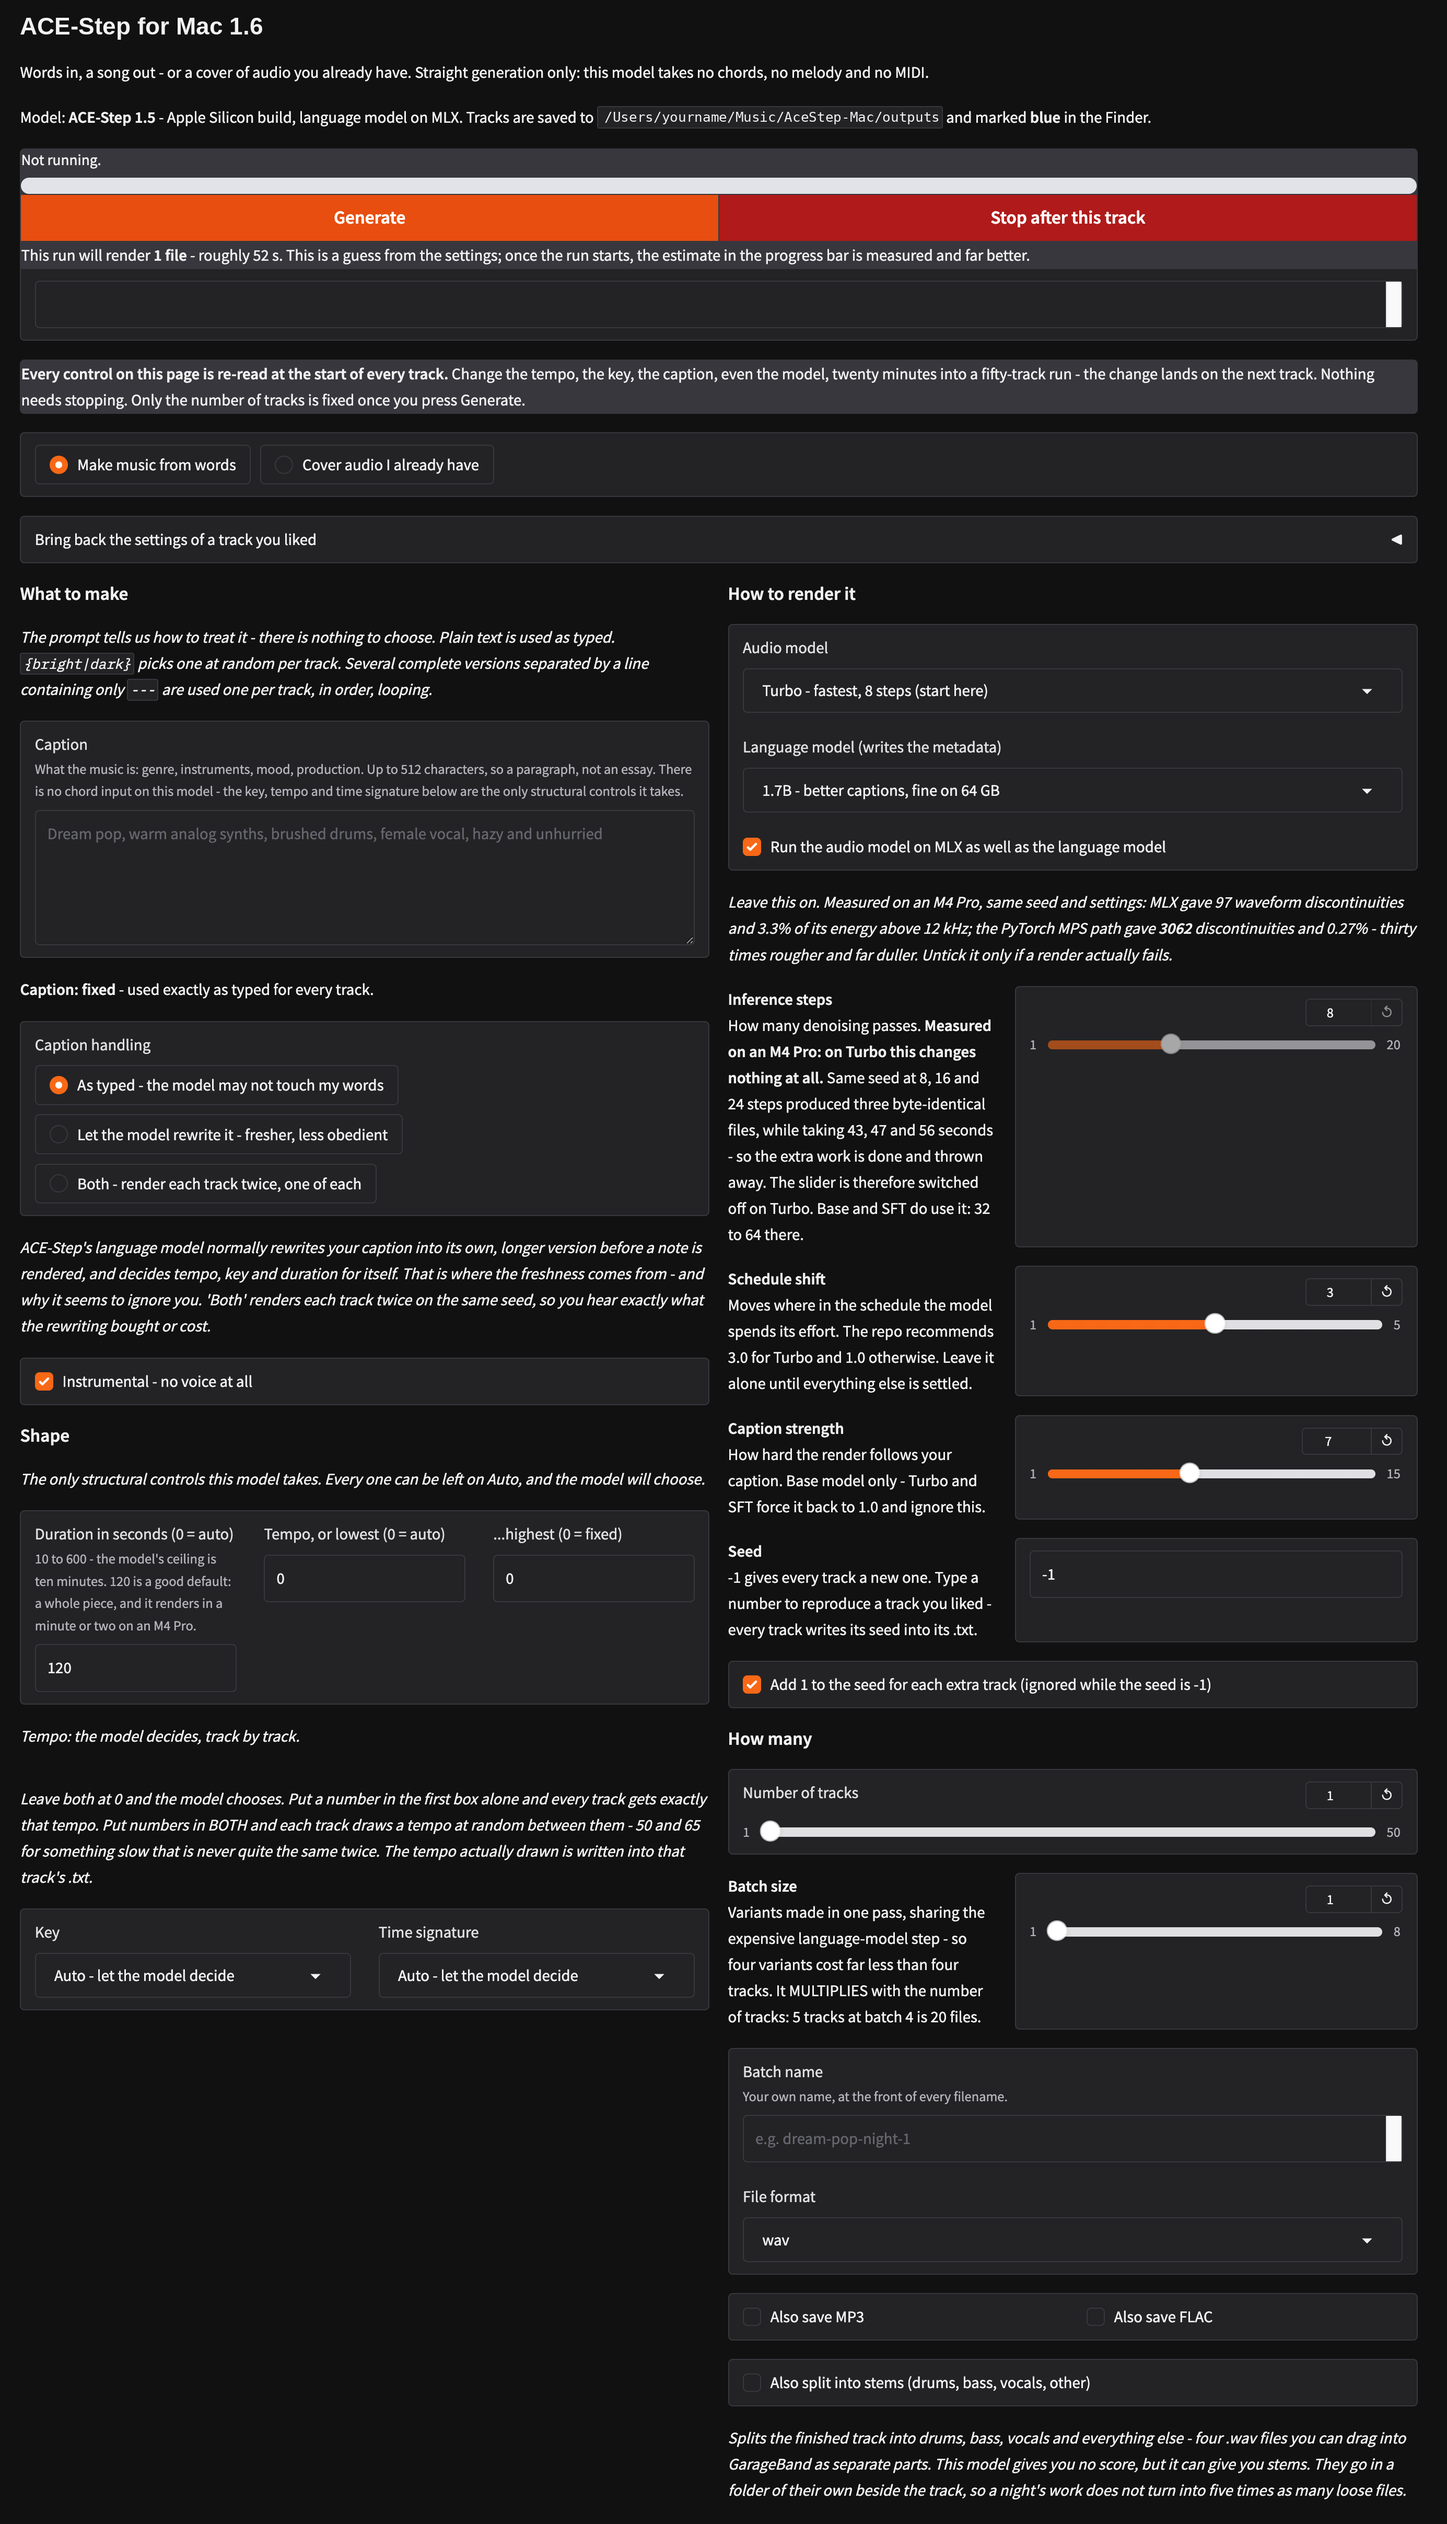
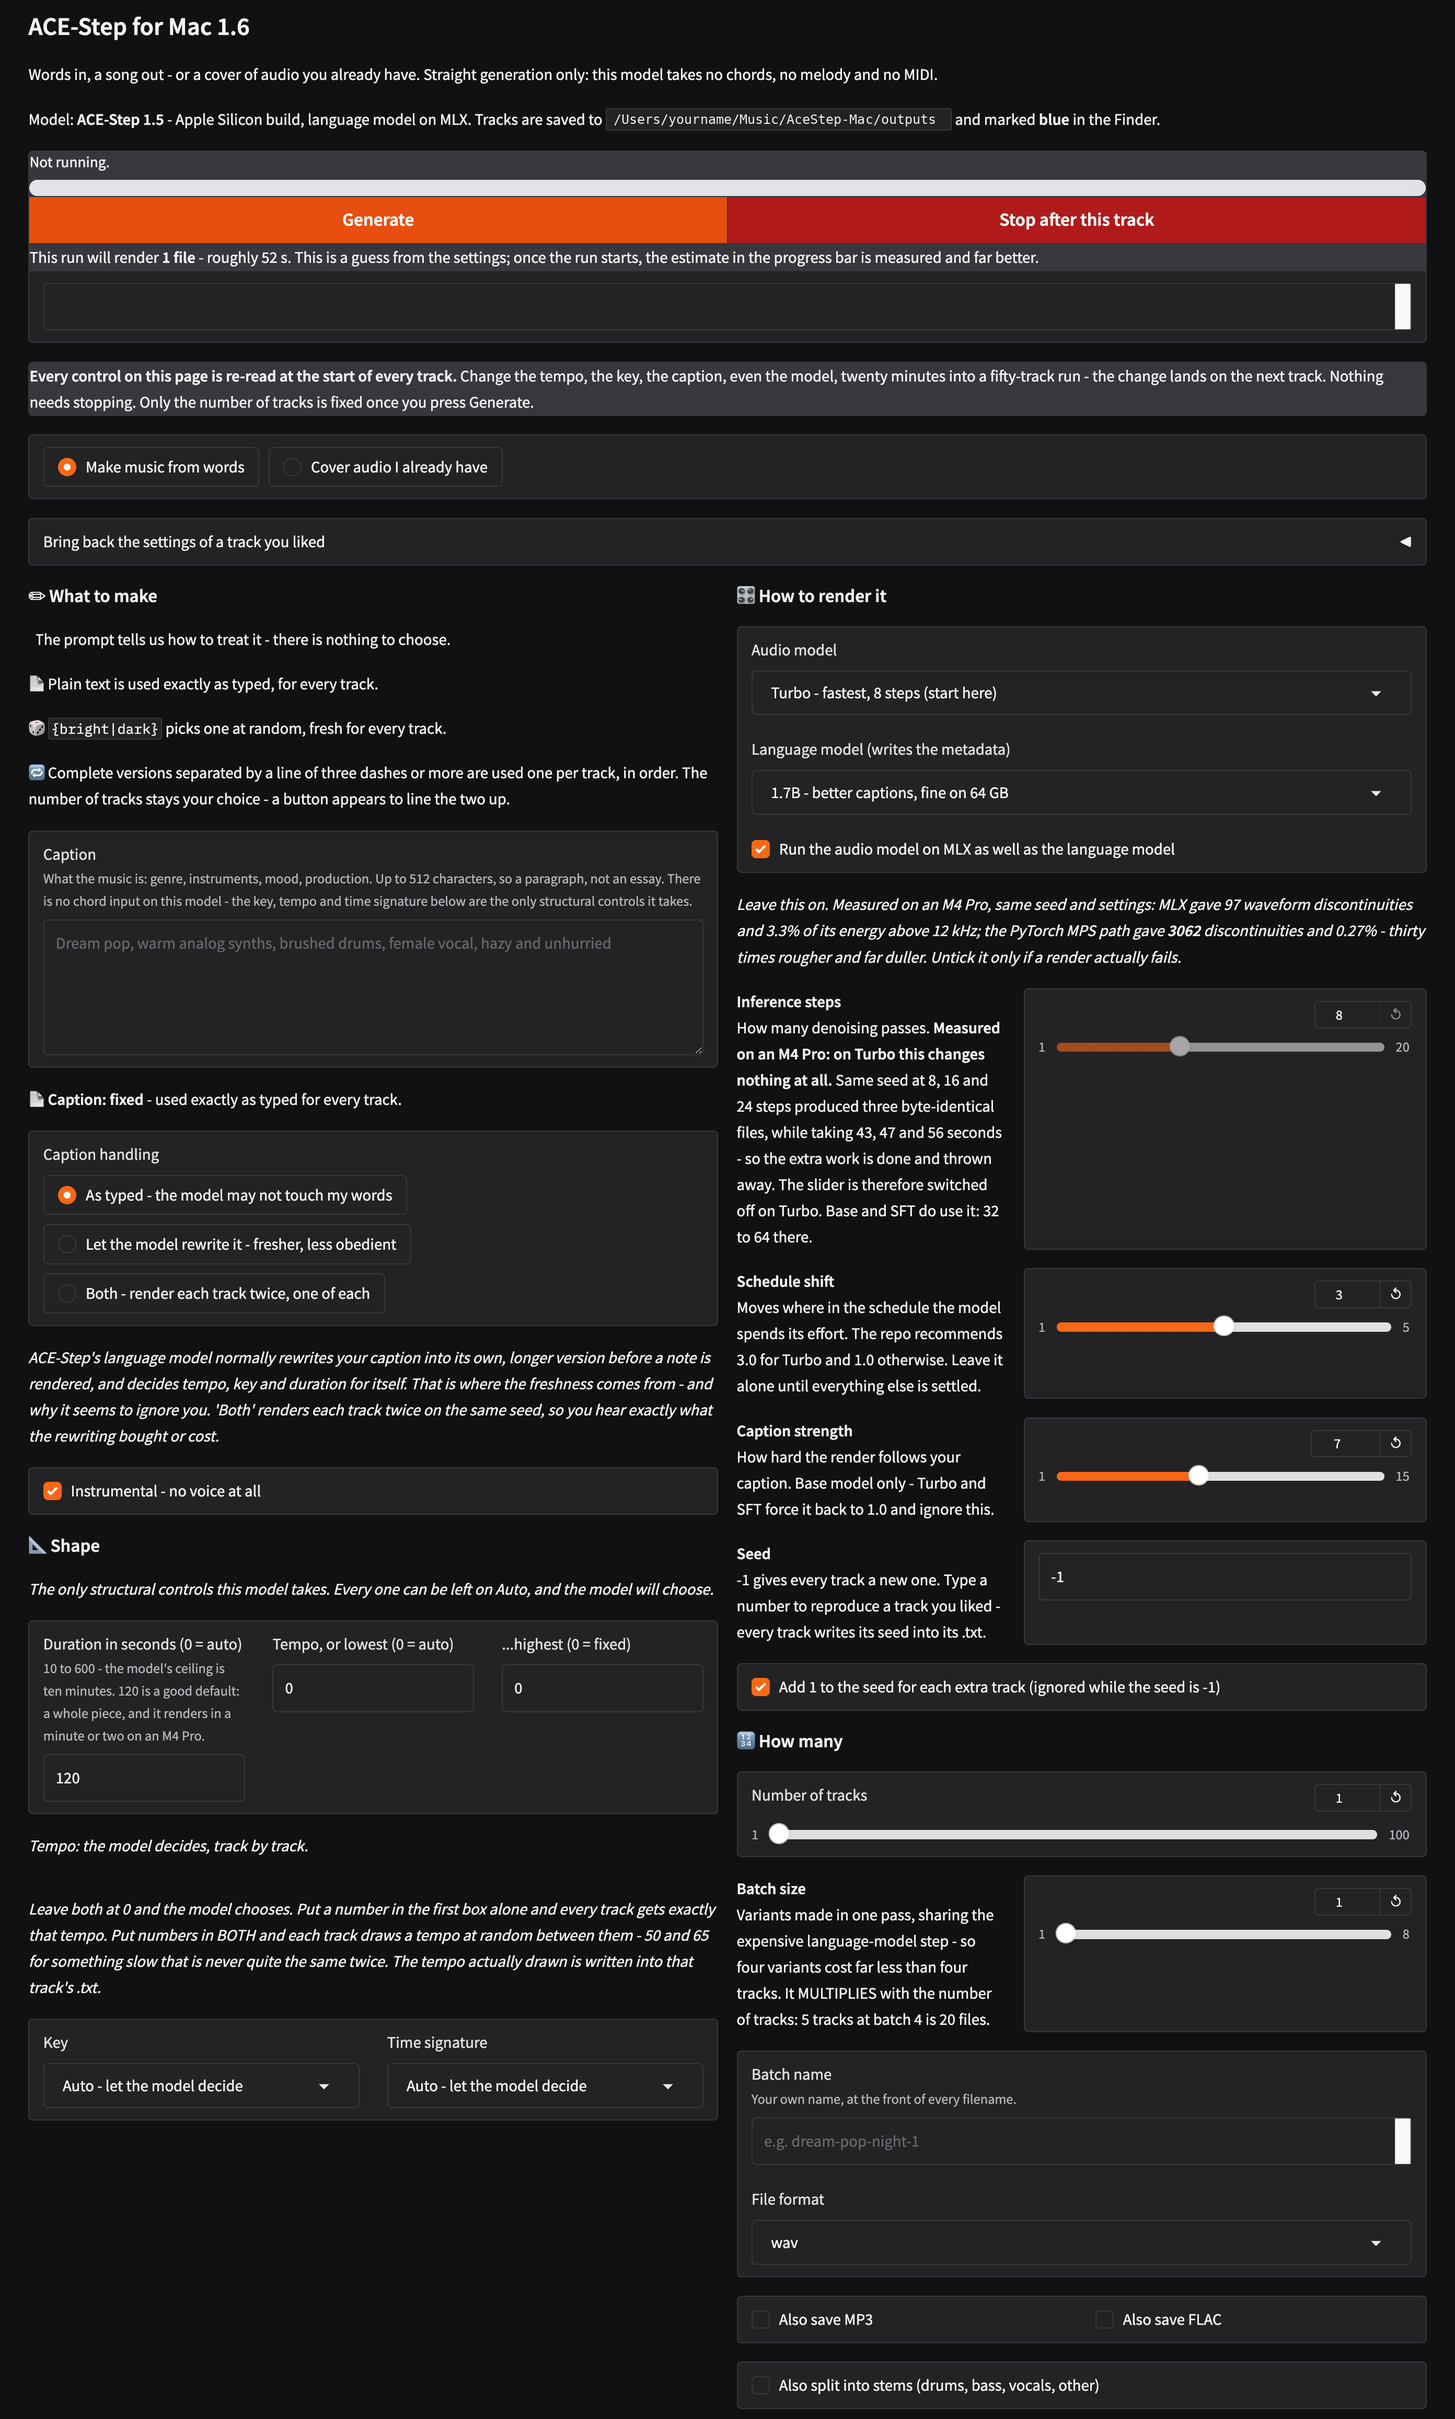
New screenshot, and the stray asterisks it revealed
The prompt legend became four paragraphs, and a blank line closes an italic
run in Markdown - so the asterisks wrapping it were printed as text, one at
the start and one at the end. Visible in the screenshot, invisible to me.
The legend is no longer italic; it is a legend, not an aside.

INSTALL now says at the top that a short version waits at the bottom, which
is where a developer in a hurry was never going to look. The old link to it
went stale when the heading gained an emoji, so it is fixed and no longer
said twice.

Screenshot retaken against the current build, output path made generic.

diff --git a/acestep_app.py b/acestep_app.py
@@ -1042,7 +1042,9 @@ with gr.Blocks(title="ACE-Step for Mac") as demo:
                             "track into.*")
 
             gr.Markdown("### \N{PENCIL} What to make")
-            gr.Markdown(f"*{PROMPT_HELP}*")
+            gr.Markdown(PROMPT_HELP)   # NOT italic: it is four paragraphs now,
+                                       # and a blank line closes an italic run,
+                                       # which printed the asterisks as text.
             caption = gr.Textbox(label="Caption", lines=5, elem_classes=["resizable"],
                                  placeholder="Dream pop, warm analog synths, brushed drums, "
                                              "female vocal, hazy and unhurried",

diff --git a/INSTALL.md b/INSTALL.md
@@ -2,12 +2,13 @@
 
 **This guide assumes you have never opened Terminal in your life.** Every
 command is written out in full. After each one you press Return and you wait
-until the prompt comes back before typing the next. If you have installed
-developer tools before, skip to [the short version](#the-short-version) at the
-bottom.
+until the prompt comes back before typing the next.
 
 Total time: about an hour, of which fifty minutes is downloading while you do
 something else.
+
+⚡ **In a hurry, and you already use a Terminal?** Everything fits in six lines —
+[jump to the short version at the bottom ⬇](#-the-short-version).
 
 ---
 
